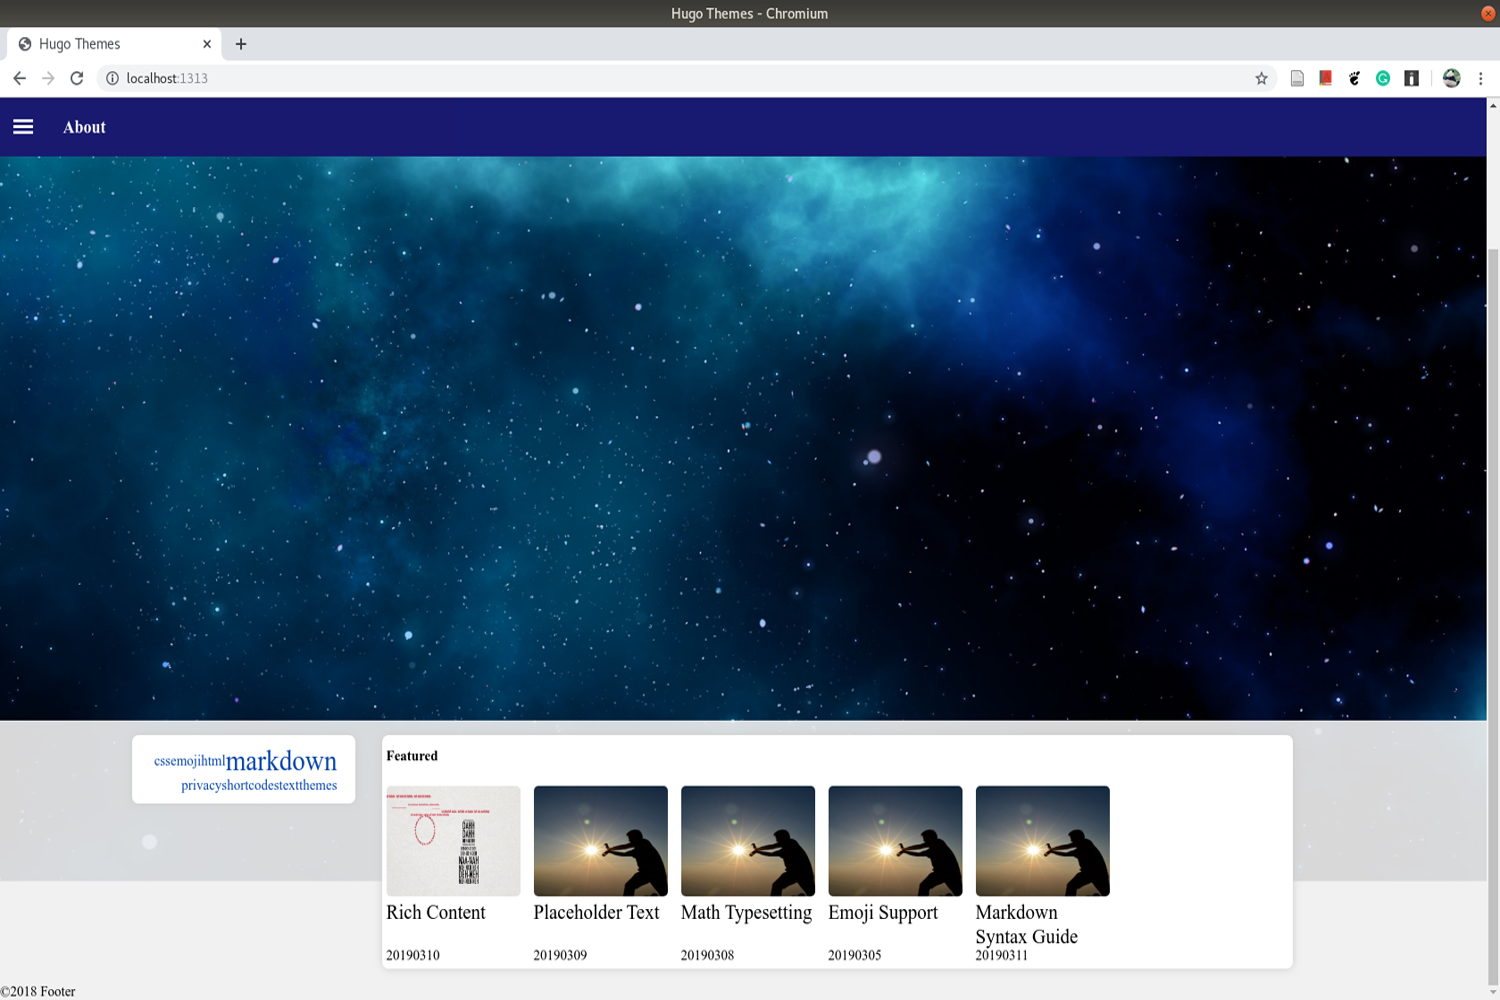
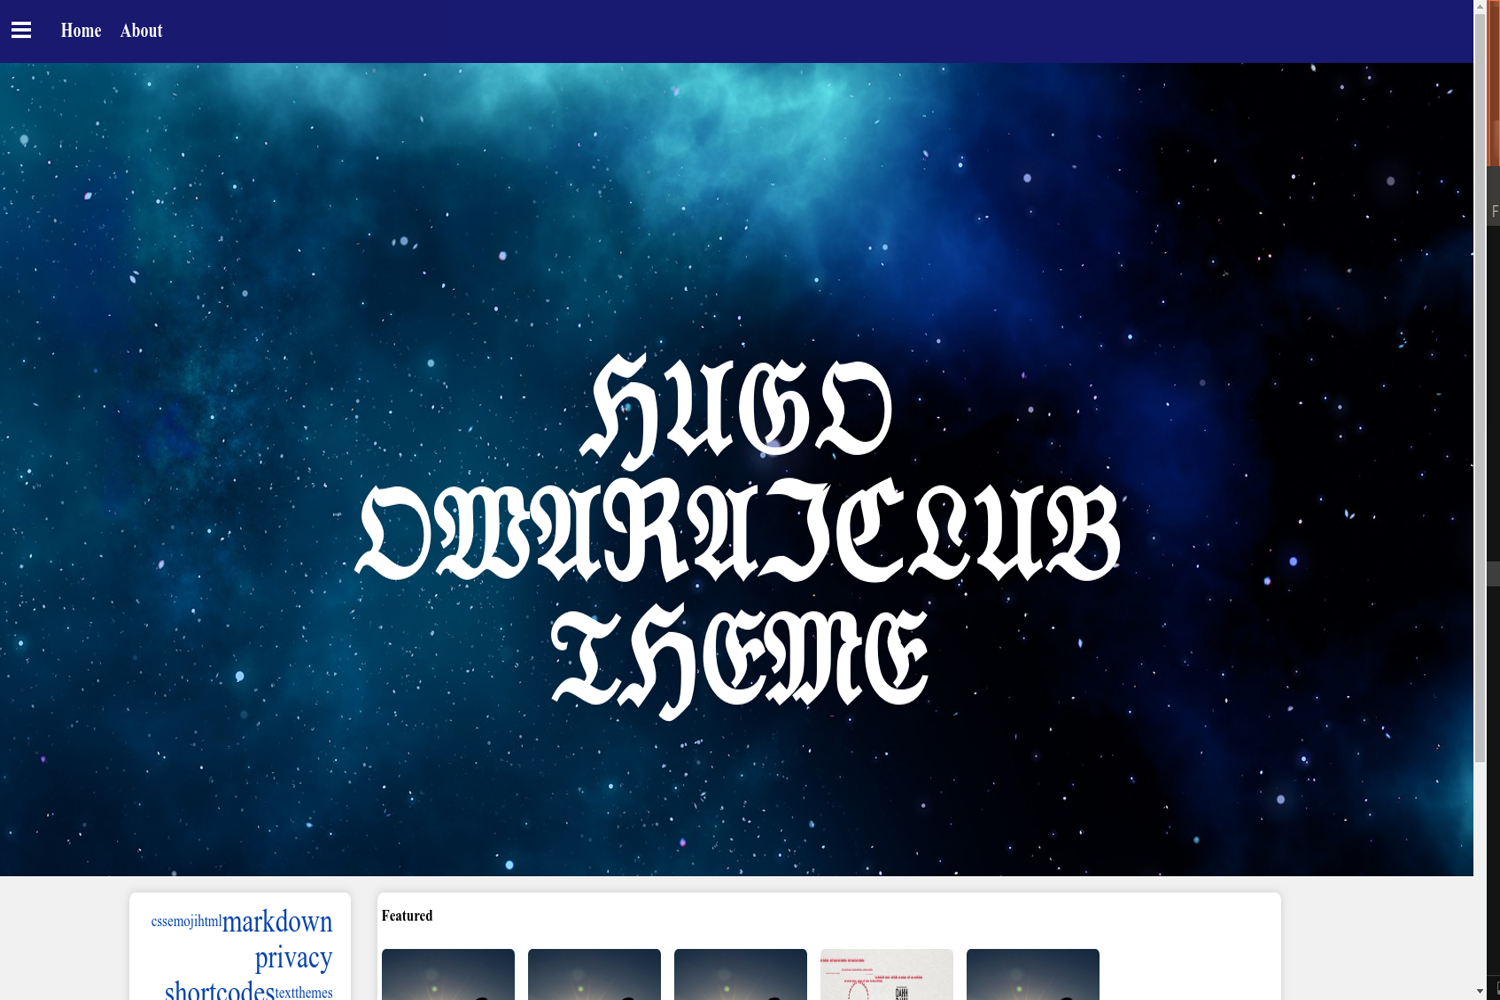
stageit

diff --git a/layouts/partials/header.html b/layouts/partials/header.html
@@ -1,13 +1,16 @@
 <header>
     <section class="intro">
         <div class="intro-container">
-            <div class="row">
+            <div class="row" style="background: url('{{ "img/banner.jpg" | absURL }}') no-repeat; background-attachment: fixed;background-position: right 60px;">
                 {{ with .Site.Params.banner }}
                 {{ range .source }}
                 <source media="{{ .media }}" srcset="{{ relURL .srcset }}">{{ end }}
                 <a href="/">
-                    <img id="bannerlogo" src="{{ relURL .src }}" alt="{{ .alt }}">
+                    <img id="bannerlogo" src="{{ .src | absURL }}" alt="{{ .alt }}">
                 </a>
+                {{ else }}
+                <!-- yihui's black magic! -->
+                <h1 style="color: white; font-size: 8rem" id="bannerlogo">{{ (replaceRE "(&[A-Z]) (fr;)" "$1$2" (replaceRE "([A-Z])" "&$1 fr;" (upper .Site.Title))) | safeHTML }}</h1>
                 {{ end }}
             </div>
         </div>

diff --git a/layouts/_default/baseof.html b/layouts/_default/baseof.html
@@ -4,7 +4,7 @@
     {{ partial "sidebar.html" . }}
     {{- partial "header" . -}}
     
-    <body style="background: url('{{ "img/banner.jpg" | absURL }}')">
+    <body>
         <div id="main">
         {{- block "main" . }}{{- end }}
         {{- partial "footer.html" . -}}

diff --git a/static/css/style.css b/static/css/style.css
@@ -79,7 +79,7 @@ header{
 body{
 /*banner source:*/
 /*https://pixabay.com/photos/nature-animals-bird-migratory-bird-2746726/*/
-    
+    background-repeat: no-repeat;
     background-size: 100% auto;
     background-attachment: fixed;
     background-position: right 60px;
